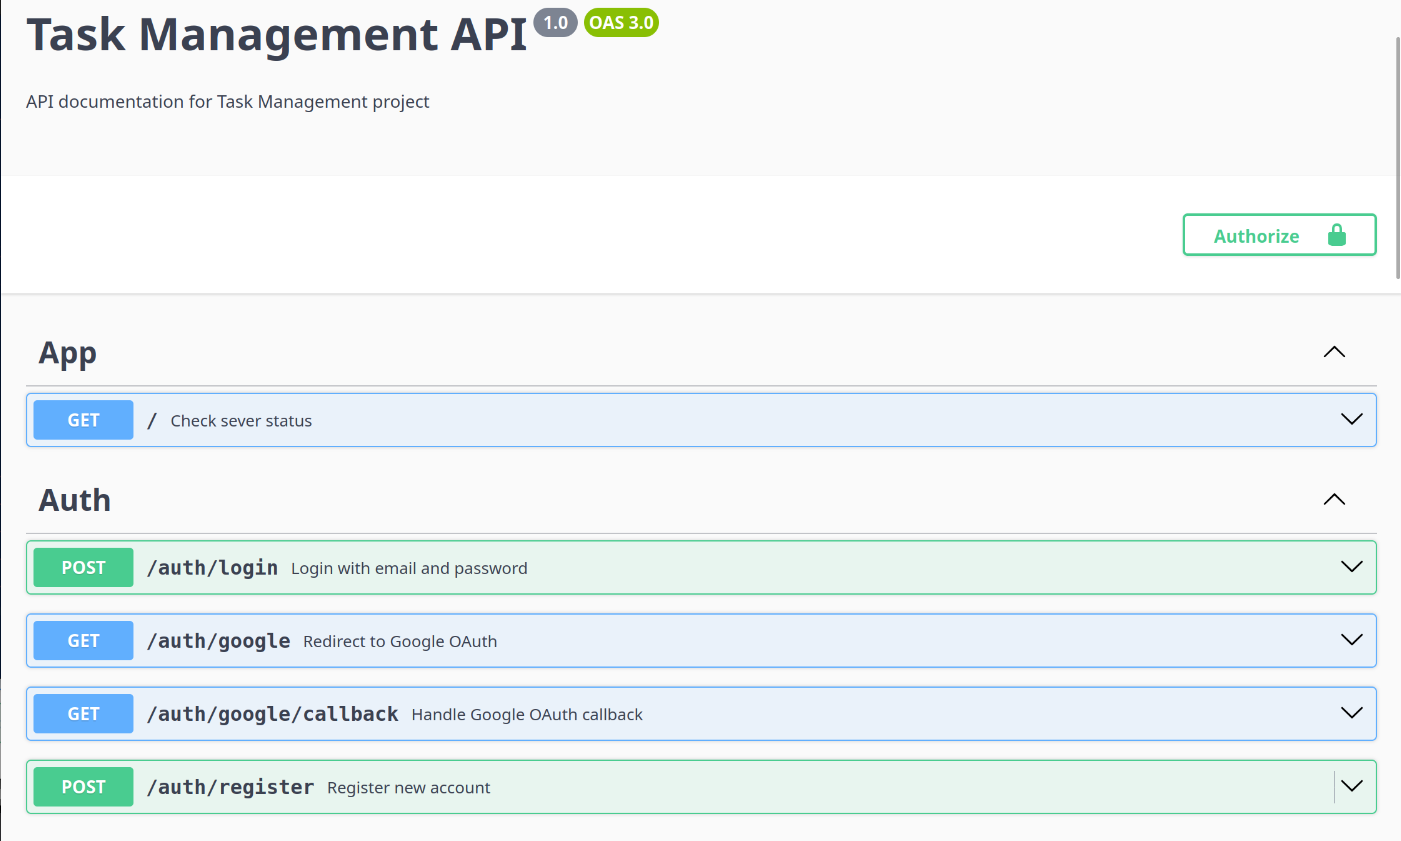
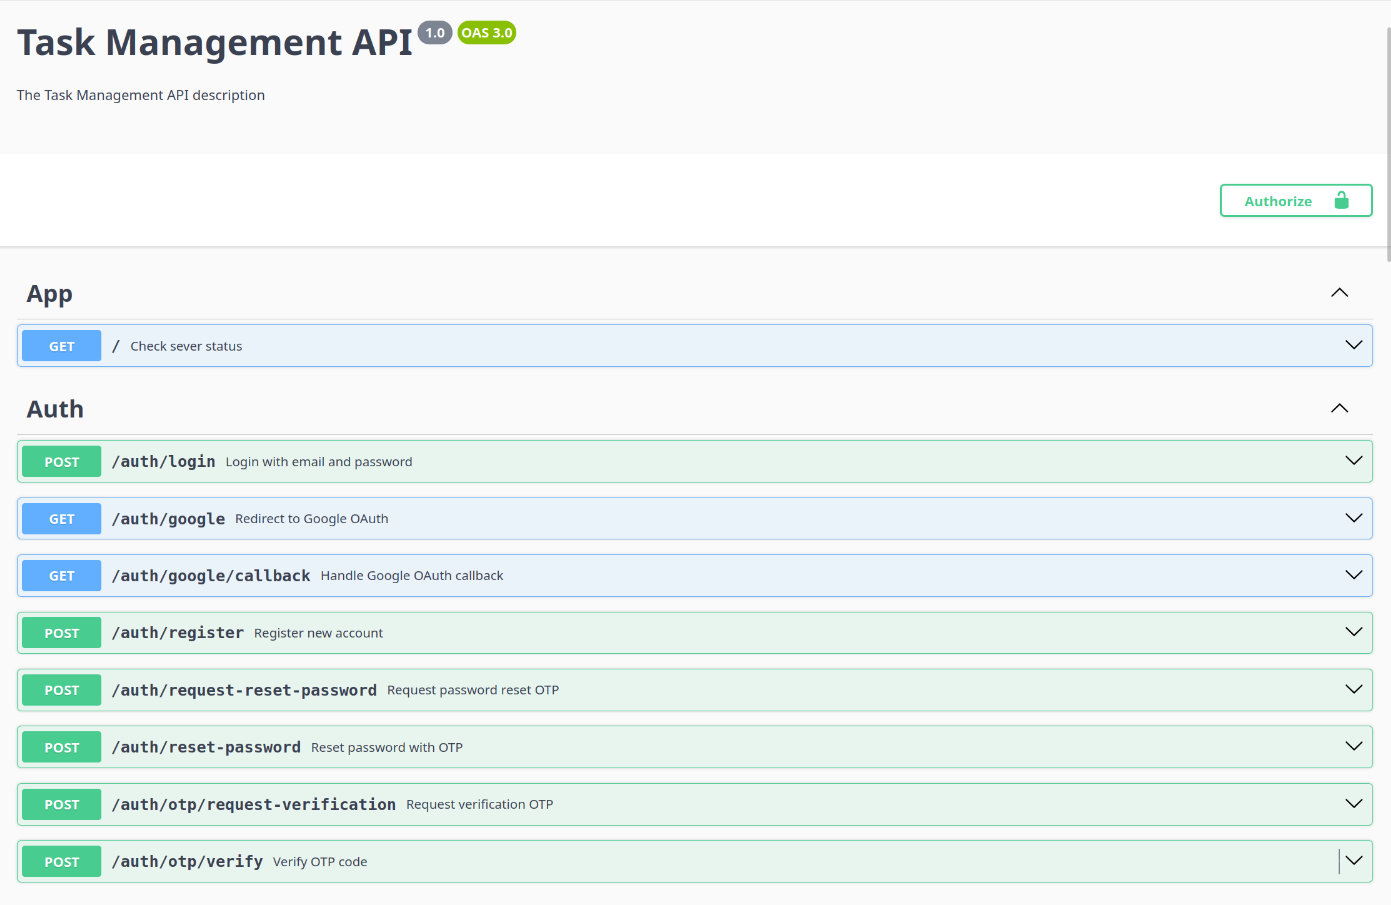
update: update README

diff --git a/README.md b/README.md
@@ -4,6 +4,19 @@ Backend API for task management system built with NestJS.
 
 > ⚠ **Development Status**: This project is currently under active development. Some features may be incomplete or subject to change. I'm working on improving stability and adding new features.
 
+## Table of Contents
+- [Features](#features)
+- [Tech Stack](#tech-stack)
+- [Getting Started](#getting-started)
+  - [Prerequisites](#prerequisites)
+  - [Installation](#installation)
+  - [Docker](#docker)
+- [API Documentation](#api-documentation)
+- [Environment Variables](#environment-variables)
+- [Project Structure](#project-structure)
+- [Demo](#demo)
+- [Contributing](#contributing)
+
 ## Features
 
 - User authentication (JWT, Google OAuth)
@@ -12,6 +25,7 @@ Backend API for task management system built with NestJS.
 - Push notifications
 - Task filtering and status tracking
 - API Documentation with Swagger
+- Email verification with OTP using Mailjet
 
 ## Tech Stack
 
@@ -20,6 +34,7 @@ Backend API for task management system built with NestJS.
 - JWT & Google OAuth2
 - Firebase Cloud Messaging
 - Swagger/OpenAPI
+- Docker & Docker Compose (Basic)
 
 ## Getting Started
 
@@ -68,7 +83,7 @@ docker run -p 8080:8080 task-management-backend
 The API documentation is available through Swagger UI. After starting the server, you can access it at:
 
 ```
-http://localhost:8080/api-docs
+http://localhost:8080/api
 ```
 
 The Swagger UI provides:
@@ -88,7 +103,7 @@ Below are some screenshots of the API documentation interface:
 ## Environment Variables
 
 ```env
-# App
+# Application
 PORT=8080
 NODE_ENV=development
 
@@ -96,39 +111,59 @@ NODE_ENV=development
 DB_HOST=localhost
 DB_PORT=5432
 DB_USERNAME=postgres
-DB_PASSWORD=your_password
+DB_PASSWORD=postgres
 DB_NAME=task_management
 
 # JWT
-JWT_SECRET=your_jwt_secret
-JWT_EXPIRATION=1d
+JWT_SECRET=your-secret-key
+JWT_EXPIRES_IN=1d
 
-# Google OAuth
-GOOGLE_CLIENT_ID=your_client_id
-GOOGLE_CLIENT_SECRET=your_client_secret
+#OAuth2
+GOOGLE_CLIENT_ID=your-id-key
+GOOGLE_CLIENT_SECRET=your-secret-key
 GOOGLE_CALLBACK_URL=http://localhost:8080/auth/google/callback
+
+#MailJet
+MAILJET_API_KEY=your-api-key
+MAILJET_API_SECRET=your-secret-key
+MAIL_FROM=your-email
+
+#Firebase
+FIREBASE_API_KEY=your-api-key
+FIREBASE_AUTH_DOMAIN=your-project.firebaseapp.com
+FIREBASE_PROJECT_ID=your-project-id
+FIREBASE_MESSAGING_SENDER_ID=your-sender-id
+FIREBASE_APP_ID=your-app-id
+FIREBASE_VAPID_KEY=your-vapid-key
 ```
 
 ## Project Structure
 
 ```
 src/
-├── modules/
-│   ├── auth/           # Authentication
-│   ├── users/          # User management
-│   ├── tasks/          # Task management
-│   ├── projects/       # Project management
-│   └── notification/   # Notifications
-├── shared/            # Shared utilities and middleware
-│   ├── swagger/       # Swagger configuration and decorators
-│   └── utils/         # Common utilities
-└── main.ts           # App entry point
+├── config/            # Configuration files
+├── common/           # Common utilities and interfaces
+├── modules/          # Feature modules
+│   ├── auth/        # Authentication
+│   ├── users/       # User management
+│   ├── tasks/       # Task management
+│   ├── projects/    # Project management
+│   └── notification/# Notifications
+├── shared/          # Shared utilities and middleware
+│   ├── swagger/     # Swagger configuration and decorators
+│   └── utils/       # Common utilities
+├── app.module.ts    # Root application module
+├── app.controller.ts# Root application controller
+├── app.service.ts   # Root application service
+└── main.ts         # Application entry point
+
+docs/               # Documentation and images
+firebase/           # Firebase configuration
+dist/              # Compiled output
 ```
 
 ## Upcoming Features
 - [ ] Admin Management
-- [ ] Validate account by Email
-- [ ] Docker Compose
 - [ ] Rate limiting
 - [ ] Caching
 
@@ -139,4 +174,12 @@ src/
 3. Commit your changes (`git commit -m 'Add some amazing feature'`)
 4. Push to the branch (`git push origin feature/amazing-feature`)
 5. Open a Pull Request
+
+## Demo
+
+### Live Demo
+- Backend API: [https://task-management-be.onrender.com](https://task-management-backend-9ilu.onrender.com)
+- API Documentation: [https://task-management-be.onrender.com/api](https://task-management-backend-9ilu.onrender.com/api)
+
+Note: This is a demo environment running on Render's free tier, which may have some limitations on performance and uptime.
 
